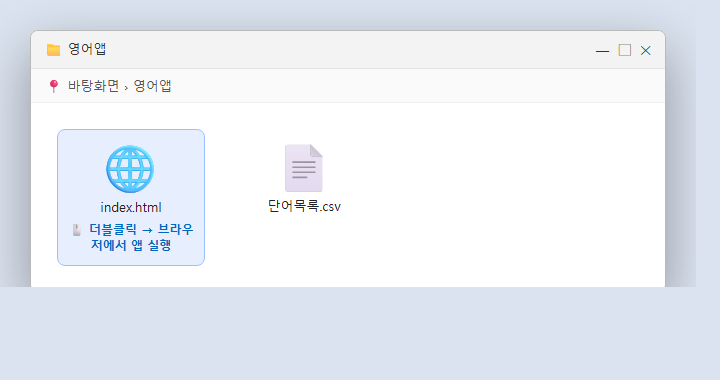
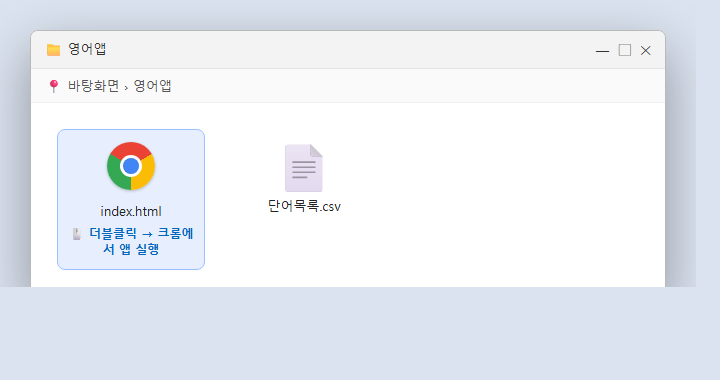
design: 슬라이드19 더블클릭 화면 — index.html 아이콘을 크롬 로고로 변경
- open_index 목업: 🌐 이모지 → CSS로 그린 Chrome 로고(빨강/노랑/초록+파란 중심)
- 설명 문구도 '크롬에서 앱 실행'으로 수정
- 같은 파일명(open_index.png) 재캡처 → 슬라이드 자동 반영

Changed region(s): [[0.0917, 0.3763, 0.275, 0.6658], [0.0917, 0.6947, 0.275, 0.7237]]

diff --git a/slides/mockups/open_index.html b/slides/mockups/open_index.html
@@ -12,6 +12,12 @@
   .file { width:130px; text-align:center; padding:12px 8px; border-radius:8px; }
   .file.sel { background:#e7efff; border:1px solid #9cc0ff; }
   .ic { font-size:48px; line-height:1; }
+  .chrome { display:inline-block; width:48px; height:48px; border-radius:50%; position:relative;
+    background: conic-gradient(from -60deg, #ea4335 0 120deg, #fbbc05 120deg 240deg, #34a853 240deg 360deg);
+    box-shadow:0 1px 3px rgba(0,0,0,.25); }
+  .chrome::before { content:""; position:absolute; inset:13px; border-radius:50%; background:#fff; }
+  .chrome::after { content:""; position:absolute; inset:16px; border-radius:50%; background:#4285f4;
+    box-shadow:inset 0 0 0 1px rgba(0,0,0,.06); }
   .fn { font-size:13px; margin-top:8px; color:#222; word-break:break-all; }
   .tip { margin-top:6px; font-size:12px; color:#0067c0; font-weight:700; }
 </style></head><body>
@@ -19,7 +25,7 @@
     <div class="tb"><span>📁 영어앱</span><span>—&nbsp; ▢ &nbsp;✕</span></div>
     <div class="path">📍 바탕화면 › 영어앱</div>
     <div class="grid">
-      <div class="file sel"><div class="ic">🌐</div><div class="fn">index.html</div><div class="tip">🖱 더블클릭 → 브라우저에서 앱 실행</div></div>
+      <div class="file sel"><div class="ic"><span class="chrome"></span></div><div class="fn">index.html</div><div class="tip">🖱 더블클릭 → 크롬에서 앱 실행</div></div>
       <div class="file"><div class="ic">📄</div><div class="fn">단어목록.csv</div></div>
     </div>
   </div>
